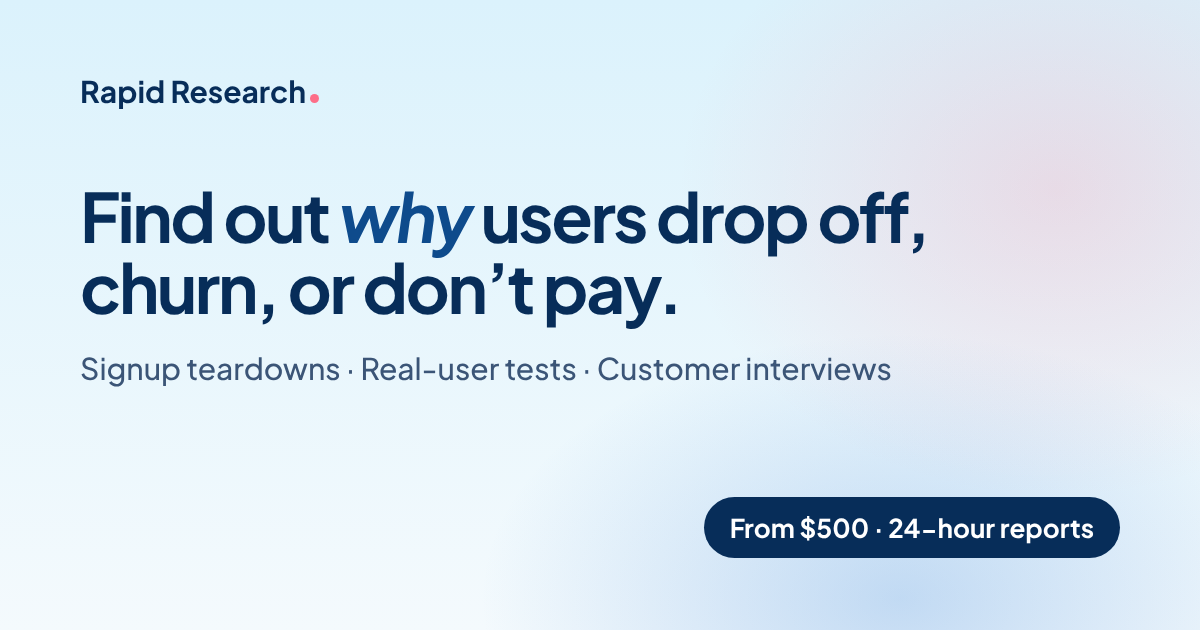
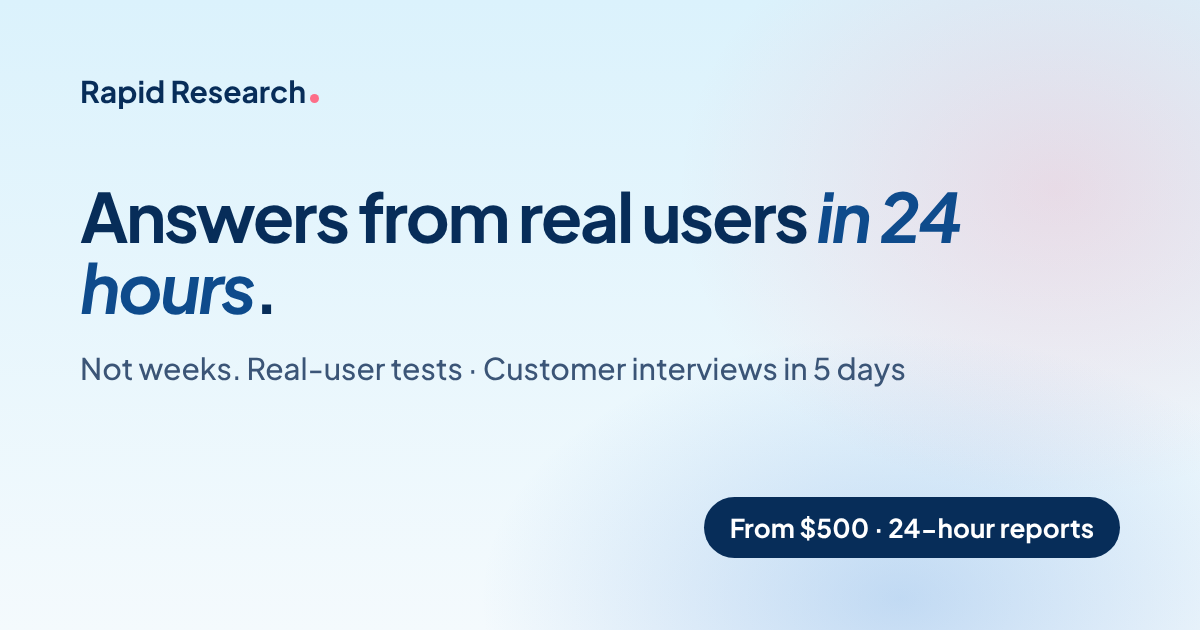
Lead with speed: hero, speed comparison, stats, page headlines, share image
Claude-Session: https://claude.ai/code/session_01Rhob8zheZJEZTM9ReQHVwF

Changed region(s): [[0.0617, 0.3016, 0.8017, 0.5127], [0.0617, 0.5429, 0.7708, 0.6032]]

diff --git a/index.html b/index.html
@@ -3,19 +3,19 @@
 <head>
 <meta charset="UTF-8">
 <meta name="viewport" content="width=device-width, initial-scale=1.0">
-<title>Find Out Why Users Drop Off | Customer Research for Startups | Rapid Research</title>
-<meta name="description" content="Find out why users drop off, churn, or don&#x27;t pay. Expert teardowns in 24 hours, real-user tests, and customer interviews with recruiting included. Fixed prices from $500.">
+<title>User Research in 24 Hours | Find Out Why Users Drop Off | Rapid Research</title>
+<meta name="description" content="Answers from real users in 24 hours, customer interviews in 5 days. Find out why users drop off, churn, or don&#x27;t pay, without waiting weeks for an agency. From $500.">
 <link rel="canonical" href="https://rapid-research.com/">
 <meta name="robots" content="index,follow">
 <meta property="og:type" content="website">
 <meta property="og:url" content="https://rapid-research.com/">
 <meta property="og:site_name" content="Rapid Research">
-<meta property="og:title" content="Find Out Why Users Drop Off | Customer Research for Startups | Rapid Research">
-<meta property="og:description" content="Find out why users drop off, churn, or don&#x27;t pay. Expert teardowns in 24 hours, real-user tests, and customer interviews with recruiting included. Fixed prices from $500.">
+<meta property="og:title" content="User Research in 24 Hours | Find Out Why Users Drop Off | Rapid Research">
+<meta property="og:description" content="Answers from real users in 24 hours, customer interviews in 5 days. Find out why users drop off, churn, or don&#x27;t pay, without waiting weeks for an agency. From $500.">
 <meta property="og:image" content="https://rapid-research.com/img/og-image.png">
 <meta name="twitter:card" content="summary_large_image">
-<meta name="twitter:title" content="Find Out Why Users Drop Off | Customer Research for Startups | Rapid Research">
-<meta name="twitter:description" content="Find out why users drop off, churn, or don&#x27;t pay. Expert teardowns in 24 hours, real-user tests, and customer interviews with recruiting included. Fixed prices from $500.">
+<meta name="twitter:title" content="User Research in 24 Hours | Find Out Why Users Drop Off | Rapid Research">
+<meta name="twitter:description" content="Answers from real users in 24 hours, customer interviews in 5 days. Find out why users drop off, churn, or don&#x27;t pay, without waiting weeks for an agency. From $500.">
 <meta name="twitter:image" content="https://rapid-research.com/img/og-image.png">
 <link rel="icon" href="img/favicon.svg" type="image/svg+xml">
 <link rel="apple-touch-icon" href="img/apple-touch-icon.png">
@@ -233,9 +233,9 @@
   <div class="wrap">
     <div class="hero-grid">
       <div>
-        <span class="eyebrow mono">● Customer research for startups</span>
-        <h1>Find out <em>why</em> users drop off, churn, or don't pay.</h1>
-        <p class="lead">Answers from real customers in days, not quarters. I find the people, run the sessions, and tell you what to fix first.</p>
+        <span class="eyebrow mono">● Answers in 24 hours to 5 days</span>
+        <h1>Know why users drop off <em>by tomorrow</em>, not next quarter.</h1>
+        <p class="lead">Most research takes weeks. I get you answers from real users in 24 hours, and customer interviews in 5 days, so you can fix things this sprint.</p>
         <div class="hero-ctas">
           <a href="#paths" class="btn btn-mint">Find your fit ↓</a>
           <a href="?pkg=Not+sure+yet+%2F+free+consultation&amp;follow=call#consult" class="btn btn-ghost" data-pkg="Not sure yet / free consultation" data-follow="call">Book a free 15-min call</a>
@@ -264,9 +264,9 @@
     </div>
 
     <div class="stats">
-      <div class="stat"><b>24 hours</b><span>fastest report</span></div>
-      <div class="stat"><b>From $500</b><span>fixed price, no hourly billing</span></div>
-      <div class="stat"><b>Under NDA</b><span>your product stays confidential</span></div>
+      <div class="stat"><b>24 hours</b><span>real-user test report</span></div>
+      <div class="stat"><b>5 days</b><span>customer interviews, report included</span></div>
+      <div class="stat"><b>From $500</b><span>fixed price, under NDA</span></div>
     </div>
     <div class="trust">
       <span class="mono">Research experience from teams at</span>
@@ -274,6 +274,22 @@
     </div>
   </div>
 </header>
+
+<section id="speed" style="padding:72px 0 24px">
+  <div class="wrap">
+    <div class="sec-head">
+      <span class="mono">Why speed matters</span>
+      <h2>Answers while the decision is still open.</h2>
+      <p>By the time a typical research project reports back, you've already shipped. Rapid Research is built to answer before you decide.</p>
+    </div>
+    <div class="speedviz" role="img" aria-label="Rapid Research delivers in 24 hours to 3 weeks; typical agencies take weeks to months">
+      <div class="sv-row me"><span class="sv-label">Real-user test</span><div class="sv-track"><i style="width:4%"></i></div><span class="sv-val">24 hours</span></div>
+      <div class="sv-row me"><span class="sv-label">Customer interviews</span><div class="sv-track"><i style="width:12%"></i></div><span class="sv-val">5 days</span></div>
+      <div class="sv-row me"><span class="sv-label">Full product review</span><div class="sv-track"><i style="width:30%"></i></div><span class="sv-val">3 weeks</span></div>
+      <div class="sv-row them"><span class="sv-label">Typical agency project</span><div class="sv-track"><i style="width:100%"></i></div><span class="sv-val">Weeks to months</span></div>
+    </div>
+  </div>
+</section>
 
 <section id="paths">
   <div class="wrap">
@@ -287,25 +303,25 @@
         <span class="who">Solo founders &amp; indie devs</span>
         <h3>I'm building something on my own</h3>
         <p>Get an expert's honest take on what you're building, or learn to get feedback yourself.</p>
-        <div class="foot"><span>From $500</span><span>See options →</span></div>
+        <div class="foot"><span>From $500 · 24 hours</span><span>See options →</span></div>
       </a>
       <a class="path" href="startups/">
         <span class="who">Startups without a researcher</span>
         <h3>We need real user feedback, fast</h3>
         <p>Real people's reactions in 24 hours, or customer interviews in 5 days.</p>
-        <div class="foot"><span>From $1,000</span><span>See options →</span></div>
+        <div class="foot"><span>From $1,000 · 24 hours</span><span>See options →</span></div>
       </a>
       <a class="path" href="teams/">
         <span class="who">Funded teams &amp; investors</span>
         <h3>We want a researcher on call</h3>
         <p>Research sprints, ongoing fractional research, or support across a portfolio.</p>
-        <div class="foot"><span>Book a call</span><span>See options →</span></div>
+        <div class="foot"><span>Sprints in 2–3 weeks</span><span>See options →</span></div>
       </a>
       <a class="path" href="learn/">
         <span class="who">Researchers, designers &amp; PMs</span>
         <h3>I want to learn rapid research</h3>
         <p>Learn to run research fast without cutting corners, in a 1:1 coaching session.</p>
-        <div class="foot"><span>$750</span><span>See options →</span></div>
+        <div class="foot"><span>$750 · within a week</span><span>See options →</span></div>
       </a>
     </div>
   </div>
@@ -454,8 +470,8 @@
 <section style="padding-top:0">
   <div class="wrap">
     <div class="cta">
-      <h2>Stop guessing why users leave.</h2>
-      <p>Real answers from real users, starting this week.</p>
+      <h2>Stop guessing. Know by tomorrow.</h2>
+      <p>Real answers from real users in 24 hours to 5 days.</p>
       <a href="#paths" class="btn btn-mint">Find your fit →</a>
     </div>
   </div>

diff --git a/teams/index.html b/teams/index.html
@@ -3,18 +3,18 @@
 <head>
 <meta charset="UTF-8">
 <meta name="viewport" content="width=device-width, initial-scale=1.0">
-<title>Fractional User Researcher for Startups &amp; VC Portfolios | Rapid Research</title>
+<title>Fast Fractional User Research for Startups &amp; VC Portfolios | Rapid Research</title>
 <meta name="description" content="A senior researcher for your team without the full-time hire: research sprints, ongoing fractional research, and portfolio support for investors.">
 <link rel="canonical" href="https://rapid-research.com/teams/">
 <meta name="robots" content="index,follow">
 <meta property="og:type" content="website">
 <meta property="og:url" content="https://rapid-research.com/teams/">
 <meta property="og:site_name" content="Rapid Research">
-<meta property="og:title" content="Fractional User Researcher for Startups &amp; VC Portfolios | Rapid Research">
+<meta property="og:title" content="Fast Fractional User Research for Startups &amp; VC Portfolios | Rapid Research">
 <meta property="og:description" content="A senior researcher for your team without the full-time hire: research sprints, ongoing fractional research, and portfolio support for investors.">
 <meta property="og:image" content="https://rapid-research.com/img/og-image.png">
 <meta name="twitter:card" content="summary_large_image">
-<meta name="twitter:title" content="Fractional User Researcher for Startups &amp; VC Portfolios | Rapid Research">
+<meta name="twitter:title" content="Fast Fractional User Research for Startups &amp; VC Portfolios | Rapid Research">
 <meta name="twitter:description" content="A senior researcher for your team without the full-time hire: research sprints, ongoing fractional research, and portfolio support for investors.">
 <meta name="twitter:image" content="https://rapid-research.com/img/og-image.png">
 <link rel="icon" href="../img/favicon.svg" type="image/svg+xml">
@@ -44,8 +44,8 @@
   <div class="wrap">
     <a href="../" class="crumb">← All options</a><br>
     <span class="eyebrow mono">● For funded teams & investors</span>
-    <h1>A senior researcher for your team, without the full-time hire.</h1>
-    <p class="lead">For funded startups, product teams, and investors who want fast, rigorous customer insight. Every engagement starts with a short call.</p>
+    <h1>Research at startup speed: answers in days, not quarters.</h1>
+    <p class="lead">A senior researcher for your team or your portfolio, without the full-time hire or the agency timeline. Every engagement starts with a short call.</p>
   </div>
 </header>
 

diff --git a/builders/index.html b/builders/index.html
@@ -3,18 +3,18 @@
 <head>
 <meta charset="UTF-8">
 <meta name="viewport" content="width=device-width, initial-scale=1.0">
-<title>Product Feedback for Indie Devs &amp; Solo Founders | Rapid Research</title>
+<title>Product Feedback in 24 Hours for Indie Devs &amp; Solo Founders | Rapid Research</title>
 <meta name="description" content="Get an expert&#x27;s honest take on what you&#x27;re building in 24 hours, watch real people try it, or learn to get user feedback yourself. From $500.">
 <link rel="canonical" href="https://rapid-research.com/builders/">
 <meta name="robots" content="index,follow">
 <meta property="og:type" content="website">
 <meta property="og:url" content="https://rapid-research.com/builders/">
 <meta property="og:site_name" content="Rapid Research">
-<meta property="og:title" content="Product Feedback for Indie Devs &amp; Solo Founders | Rapid Research">
+<meta property="og:title" content="Product Feedback in 24 Hours for Indie Devs &amp; Solo Founders | Rapid Research">
 <meta property="og:description" content="Get an expert&#x27;s honest take on what you&#x27;re building in 24 hours, watch real people try it, or learn to get user feedback yourself. From $500.">
 <meta property="og:image" content="https://rapid-research.com/img/og-image.png">
 <meta name="twitter:card" content="summary_large_image">
-<meta name="twitter:title" content="Product Feedback for Indie Devs &amp; Solo Founders | Rapid Research">
+<meta name="twitter:title" content="Product Feedback in 24 Hours for Indie Devs &amp; Solo Founders | Rapid Research">
 <meta name="twitter:description" content="Get an expert&#x27;s honest take on what you&#x27;re building in 24 hours, watch real people try it, or learn to get user feedback yourself. From $500.">
 <meta name="twitter:image" content="https://rapid-research.com/img/og-image.png">
 <link rel="icon" href="../img/favicon.svg" type="image/svg+xml">
@@ -44,8 +44,8 @@
   <div class="wrap">
     <a href="../" class="crumb">← All options</a><br>
     <span class="eyebrow mono">● For solo founders & indie devs</span>
-    <h1>Get an expert's eyes on what you're building.</h1>
-    <p class="lead">Vibe coding a side project or about to launch? Get honest feedback from a senior researcher, or learn to get it yourself.</p>
+    <h1>Feedback on what you're building, by tomorrow.</h1>
+    <p class="lead">Vibe coding a side project or about to launch? Get a senior researcher's honest take in 24 hours, or learn to get feedback yourself.</p>
   </div>
 </header>
 

diff --git a/startups/index.html b/startups/index.html
@@ -3,18 +3,18 @@
 <head>
 <meta charset="UTF-8">
 <meta name="viewport" content="width=device-width, initial-scale=1.0">
-<title>User Research for Startups Without a Researcher | Rapid Research</title>
+<title>User Testing in 24 Hours for Startups Without a Researcher | Rapid Research</title>
 <meta name="description" content="Real feedback from real users without hiring a researcher: 24-hour real-user tests and customer interviews in 5 days, recruiting included. Fixed prices.">
 <link rel="canonical" href="https://rapid-research.com/startups/">
 <meta name="robots" content="index,follow">
 <meta property="og:type" content="website">
 <meta property="og:url" content="https://rapid-research.com/startups/">
 <meta property="og:site_name" content="Rapid Research">
-<meta property="og:title" content="User Research for Startups Without a Researcher | Rapid Research">
+<meta property="og:title" content="User Testing in 24 Hours for Startups Without a Researcher | Rapid Research">
 <meta property="og:description" content="Real feedback from real users without hiring a researcher: 24-hour real-user tests and customer interviews in 5 days, recruiting included. Fixed prices.">
 <meta property="og:image" content="https://rapid-research.com/img/og-image.png">
 <meta name="twitter:card" content="summary_large_image">
-<meta name="twitter:title" content="User Research for Startups Without a Researcher | Rapid Research">
+<meta name="twitter:title" content="User Testing in 24 Hours for Startups Without a Researcher | Rapid Research">
 <meta name="twitter:description" content="Real feedback from real users without hiring a researcher: 24-hour real-user tests and customer interviews in 5 days, recruiting included. Fixed prices.">
 <meta name="twitter:image" content="https://rapid-research.com/img/og-image.png">
 <link rel="icon" href="../img/favicon.svg" type="image/svg+xml">
@@ -44,8 +44,8 @@
   <div class="wrap">
     <a href="../" class="crumb">← All options</a><br>
     <span class="eyebrow mono">● For startups without a researcher</span>
-    <h1>Real feedback from real users, without hiring a researcher.</h1>
-    <p class="lead">Formal, fast research your team can act on this week. I find the people, run the sessions, and send a clear report.</p>
+    <h1>Real user feedback in 24 hours. Customer interviews in 5 days.</h1>
+    <p class="lead">No researcher on the team? No problem. I find the people, run the sessions, and send a clear report you can act on this sprint.</p>
   </div>
 </header>
 

diff --git a/styles.css b/styles.css
@@ -258,3 +258,14 @@
 .offer li::before{content:"";position:absolute;left:0;top:8px;width:11px;height:6px;border-left:2px solid var(--mint);border-bottom:2px solid var(--mint);transform:rotate(-45deg)}
 .tiers.three-col{grid-template-columns:repeat(3,1fr)}
 @media(max-width:920px){.paths,.free,.offers,.tiers.three-col{grid-template-columns:1fr}.page-hero{padding:56px 0 24px}}
+
+/* Speed comparison */
+.speedviz{display:grid;gap:14px;background:#fff;border:1px solid var(--line);border-radius:var(--radius);padding:28px 30px}
+.sv-row{display:grid;grid-template-columns:190px 1fr 140px;gap:18px;align-items:center}
+.sv-label{font-weight:600}
+.sv-track{height:14px;border-radius:14px;background:var(--night-3);overflow:hidden}
+.sv-track i{display:block;height:100%;border-radius:14px;background:var(--platinum);min-width:14px}
+.sv-row.them .sv-label,.sv-row.them .sv-val{color:var(--muted);font-weight:500}
+.sv-row.them .sv-track i{background:#B9C9DA}
+.sv-val{font-weight:700;text-align:right}
+@media(max-width:700px){.sv-row{grid-template-columns:1fr auto;gap:6px 12px}.sv-track{grid-column:1/-1;grid-row:2}}

diff --git a/_build/fragments/stats_trust.html b/_build/fragments/stats_trust.html
@@ -1,7 +1,7 @@
 <div class="stats">
-      <div class="stat"><b>24 hours</b><span>fastest report</span></div>
-      <div class="stat"><b>From $500</b><span>fixed price, no hourly billing</span></div>
-      <div class="stat"><b>Under NDA</b><span>your product stays confidential</span></div>
+      <div class="stat"><b>24 hours</b><span>real-user test report</span></div>
+      <div class="stat"><b>5 days</b><span>customer interviews, report included</span></div>
+      <div class="stat"><b>From $500</b><span>fixed price, under NDA</span></div>
     </div>
     <div class="trust">
       <span class="mono">Research experience from teams at</span>

diff --git a/learn/index.html b/learn/index.html
@@ -44,7 +44,7 @@
   <div class="wrap">
     <a href="../" class="crumb">← All options</a><br>
     <span class="eyebrow mono">● For researchers, designers & PMs</span>
-    <h1>Learn to run research fast, without cutting corners.</h1>
+    <h1>Learn to get answers in days, not weeks.</h1>
     <p class="lead">Get answers in days instead of weeks: scoping, recruiting, sessions, and synthesis, from someone who does it every week.</p>
   </div>
 </header>

diff --git a/_build/build.py b/_build/build.py
@@ -188,8 +188,8 @@ def home():
     stats = frag("stats_trust.html")
     ld = frag("ld.html")
     extra = ld + "\n"
-    out = head("Find Out Why Users Drop Off | Customer Research for Startups | Rapid Research",
-               "Find out why users drop off, churn, or don't pay. Expert teardowns in 24 hours, real-user tests, and customer interviews with recruiting included. Fixed prices from $500.",
+    out = head("User Research in 24 Hours | Find Out Why Users Drop Off | Rapid Research",
+               "Answers from real users in 24 hours, customer interviews in 5 days. Find out why users drop off, churn, or don't pay, without waiting weeks for an agency. From $500.",
                "/", p, extra)
     out += nav(p)
     out += f"""
@@ -197,9 +197,9 @@ def home():
   <div class="wrap">
     <div class="hero-grid">
       <div>
-        <span class="eyebrow mono">● Customer research for startups</span>
-        <h1>Find out <em>why</em> users drop off, churn, or don't pay.</h1>
-        <p class="lead">Answers from real customers in days, not quarters. I find the people, run the sessions, and tell you what to fix first.</p>
+        <span class="eyebrow mono">● Answers in 24 hours to 5 days</span>
+        <h1>Know why users drop off <em>by tomorrow</em>, not next quarter.</h1>
+        <p class="lead">Most research takes weeks. I get you answers from real users in 24 hours, and customer interviews in 5 days, so you can fix things this sprint.</p>
         <div class="hero-ctas">
           <a href="#paths" class="btn btn-mint">Find your fit ↓</a>
           <a href="{html.escape(form_link(p, follow='call'))}" class="btn btn-ghost" data-pkg="{NOT_SURE}" data-follow="call">Book a free 15-min call</a>
@@ -210,6 +210,22 @@ def home():
     {stats}
   </div>
 </header>
+
+<section id="speed" style="padding:72px 0 24px">
+  <div class="wrap">
+    <div class="sec-head">
+      <span class="mono">Why speed matters</span>
+      <h2>Answers while the decision is still open.</h2>
+      <p>By the time a typical research project reports back, you've already shipped. Rapid Research is built to answer before you decide.</p>
+    </div>
+    <div class="speedviz" role="img" aria-label="Rapid Research delivers in 24 hours to 3 weeks; typical agencies take weeks to months">
+      <div class="sv-row me"><span class="sv-label">Real-user test</span><div class="sv-track"><i style="width:4%"></i></div><span class="sv-val">24 hours</span></div>
+      <div class="sv-row me"><span class="sv-label">Customer interviews</span><div class="sv-track"><i style="width:12%"></i></div><span class="sv-val">5 days</span></div>
+      <div class="sv-row me"><span class="sv-label">Full product review</span><div class="sv-track"><i style="width:30%"></i></div><span class="sv-val">3 weeks</span></div>
+      <div class="sv-row them"><span class="sv-label">Typical agency project</span><div class="sv-track"><i style="width:100%"></i></div><span class="sv-val">Weeks to months</span></div>
+    </div>
+  </div>
+</section>
 
 <section id="paths">
   <div class="wrap">
@@ -223,25 +239,25 @@ def home():
         <span class="who">Solo founders &amp; indie devs</span>
         <h3>I'm building something on my own</h3>
         <p>Get an expert's honest take on what you're building, or learn to get feedback yourself.</p>
-        <div class="foot"><span>From $500</span><span>See options →</span></div>
+        <div class="foot"><span>From $500 · 24 hours</span><span>See options →</span></div>
       </a>
       <a class="path" href="startups/">
         <span class="who">Startups without a researcher</span>
         <h3>We need real user feedback, fast</h3>
         <p>Real people's reactions in 24 hours, or customer interviews in 5 days.</p>
-        <div class="foot"><span>From $1,000</span><span>See options →</span></div>
+        <div class="foot"><span>From $1,000 · 24 hours</span><span>See options →</span></div>
       </a>
       <a class="path" href="teams/">
         <span class="who">Funded teams &amp; investors</span>
         <h3>We want a researcher on call</h3>
         <p>Research sprints, ongoing fractional research, or support across a portfolio.</p>
-        <div class="foot"><span>Book a call</span><span>See options →</span></div>
+        <div class="foot"><span>Sprints in 2–3 weeks</span><span>See options →</span></div>
       </a>
       <a class="path" href="learn/">
         <span class="who">Researchers, designers &amp; PMs</span>
         <h3>I want to learn rapid research</h3>
         <p>Learn to run research fast without cutting corners, in a 1:1 coaching session.</p>
-        <div class="foot"><span>$750</span><span>See options →</span></div>
+        <div class="foot"><span>$750 · within a week</span><span>See options →</span></div>
       </a>
     </div>
   </div>
@@ -293,8 +309,8 @@ def home():
 <section style="padding-top:0">
   <div class="wrap">
     <div class="cta">
-      <h2>Stop guessing why users leave.</h2>
-      <p>Real answers from real users, starting this week.</p>
+      <h2>Stop guessing. Know by tomorrow.</h2>
+      <p>Real answers from real users in 24 hours to 5 days.</p>
       <a href="#paths" class="btn btn-mint">Find your fit →</a>
     </div>
   </div>
@@ -328,13 +344,13 @@ def home():
 # ================================================================== BUILDERS
 def builders():
     p = "../"
-    out = head("Product Feedback for Indie Devs & Solo Founders | Rapid Research",
+    out = head("Product Feedback in 24 Hours for Indie Devs & Solo Founders | Rapid Research",
                "Get an expert's honest take on what you're building in 24 hours, watch real people try it, or learn to get user feedback yourself. From $500.",
                "/builders/", p)
     out += nav(p)
     out += page_hero(p, "For solo founders & indie devs",
-                     "Get an expert's eyes on what you're building.",
-                     "Vibe coding a side project or about to launch? Get honest feedback from a senior researcher, or learn to get it yourself.")
+                     "Feedback on what you're building, by tomorrow.",
+                     "Vibe coding a side project or about to launch? Get a senior researcher's honest take in 24 hours, or learn to get feedback yourself.")
     coaching = tier("coaching", "Within 1 week", "Customer Interview Coaching",
                     "Learn to get feedback on your product yourself.", "$750",
                     ["A 90-minute call focused on your product",
@@ -357,13 +373,13 @@ def builders():
 # ================================================================== STARTUPS
 def startups():
     p = "../"
-    out = head("User Research for Startups Without a Researcher | Rapid Research",
+    out = head("User Testing in 24 Hours for Startups Without a Researcher | Rapid Research",
                "Real feedback from real users without hiring a researcher: 24-hour real-user tests and customer interviews in 5 days, recruiting included. Fixed prices.",
                "/startups/", p)
     out += nav(p)
     out += page_hero(p, "For startups without a researcher",
-                     "Real feedback from real users, without hiring a researcher.",
-                     "Formal, fast research your team can act on this week. I find the people, run the sessions, and send a clear report.")
+                     "Real user feedback in 24 hours. Customer interviews in 5 days.",
+                     "No researcher on the team? No problem. I find the people, run the sessions, and send a clear report you can act on this sprint.")
     process = frag("process.html").replace('<section id="process" class="light">', '<section id="process" class="light">')
     out += f"""
 <section id="packages">
@@ -392,13 +408,13 @@ def startups():
 # ================================================================== TEAMS
 def teams():
     p = "../"
-    out = head("Fractional User Researcher for Startups & VC Portfolios | Rapid Research",
+    out = head("Fast Fractional User Research for Startups & VC Portfolios | Rapid Research",
                "A senior researcher for your team without the full-time hire: research sprints, ongoing fractional research, and portfolio support for investors.",
                "/teams/", p)
     out += nav(p)
     out += page_hero(p, "For funded teams & investors",
-                     "A senior researcher for your team, without the full-time hire.",
-                     "For funded startups, product teams, and investors who want fast, rigorous customer insight. Every engagement starts with a short call.")
+                     "Research at startup speed: answers in days, not quarters.",
+                     "A senior researcher for your team or your portfolio, without the full-time hire or the agency timeline. Every engagement starts with a short call.")
     cmp = frag("compare.html").replace("Real users, senior expertise, startup budget.", "Senior expertise, without agency cost or timelines.")
     call = html.escape(form_link(p, follow="call"))
     out += f"""
@@ -450,7 +466,7 @@ def learn():
                "/learn/", p)
     out += nav(p)
     out += page_hero(p, "For researchers, designers & PMs",
-                     "Learn to run research fast, without cutting corners.",
+                     "Learn to get answers in days, not weeks.",
                      "Get answers in days instead of weeks: scoping, recruiting, sessions, and synthesis, from someone who does it every week.")
     coaching = tier("coaching", "Within 1 week", "Rapid Research Coaching",
                     "A 1:1 session on running research fast.", "$750",
